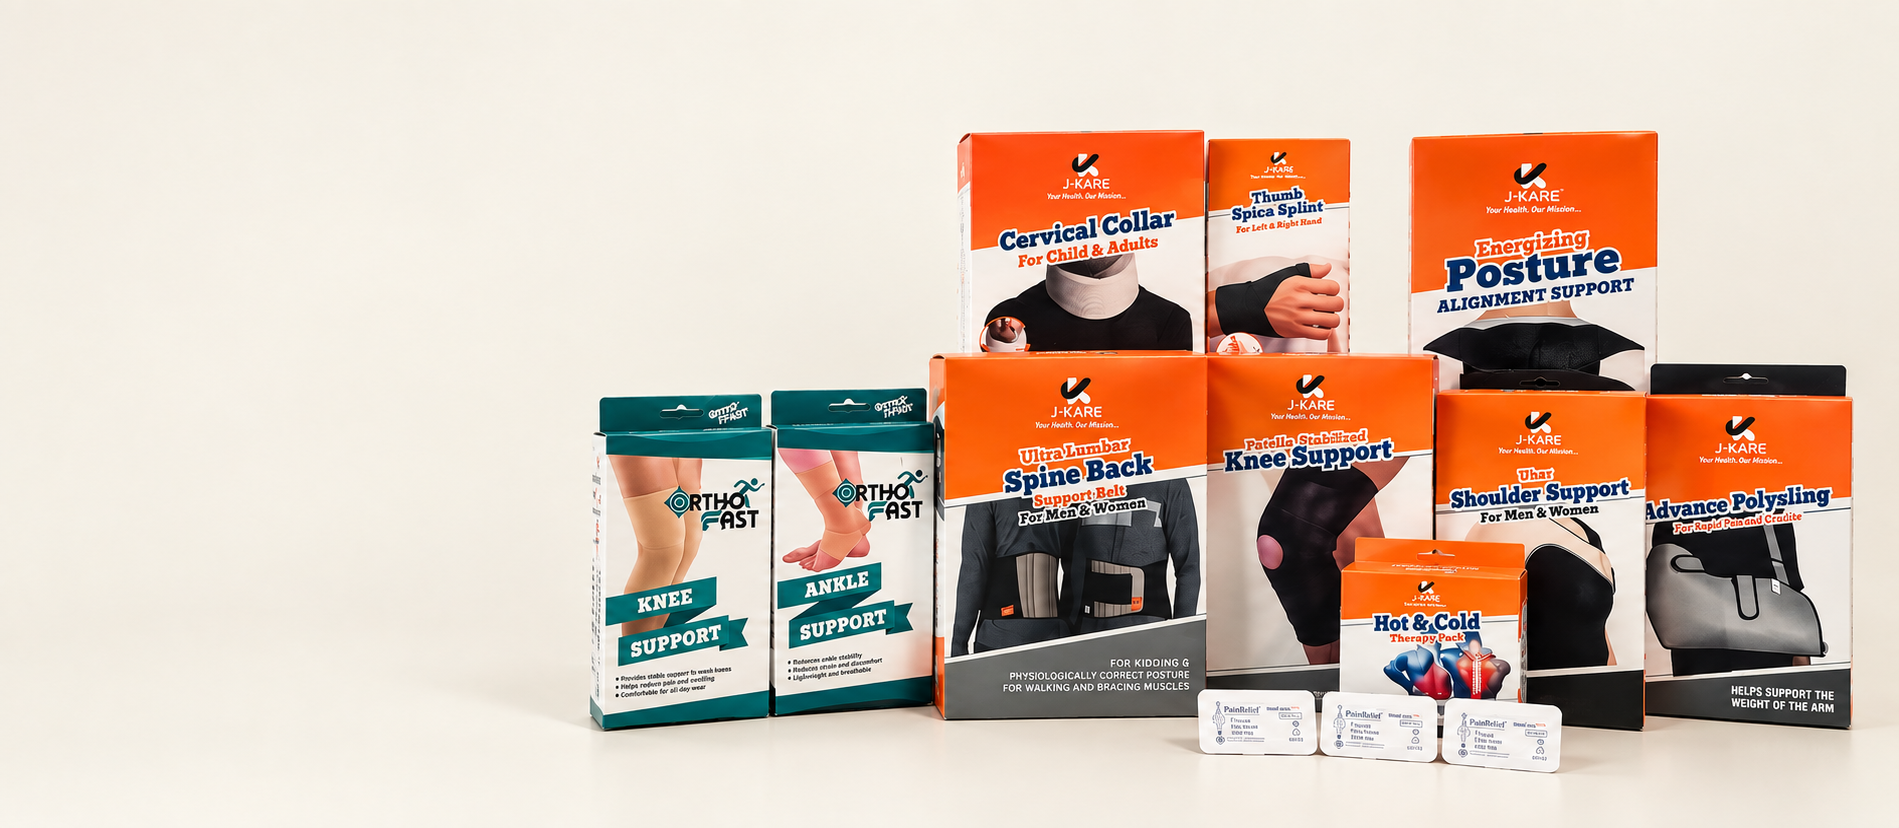
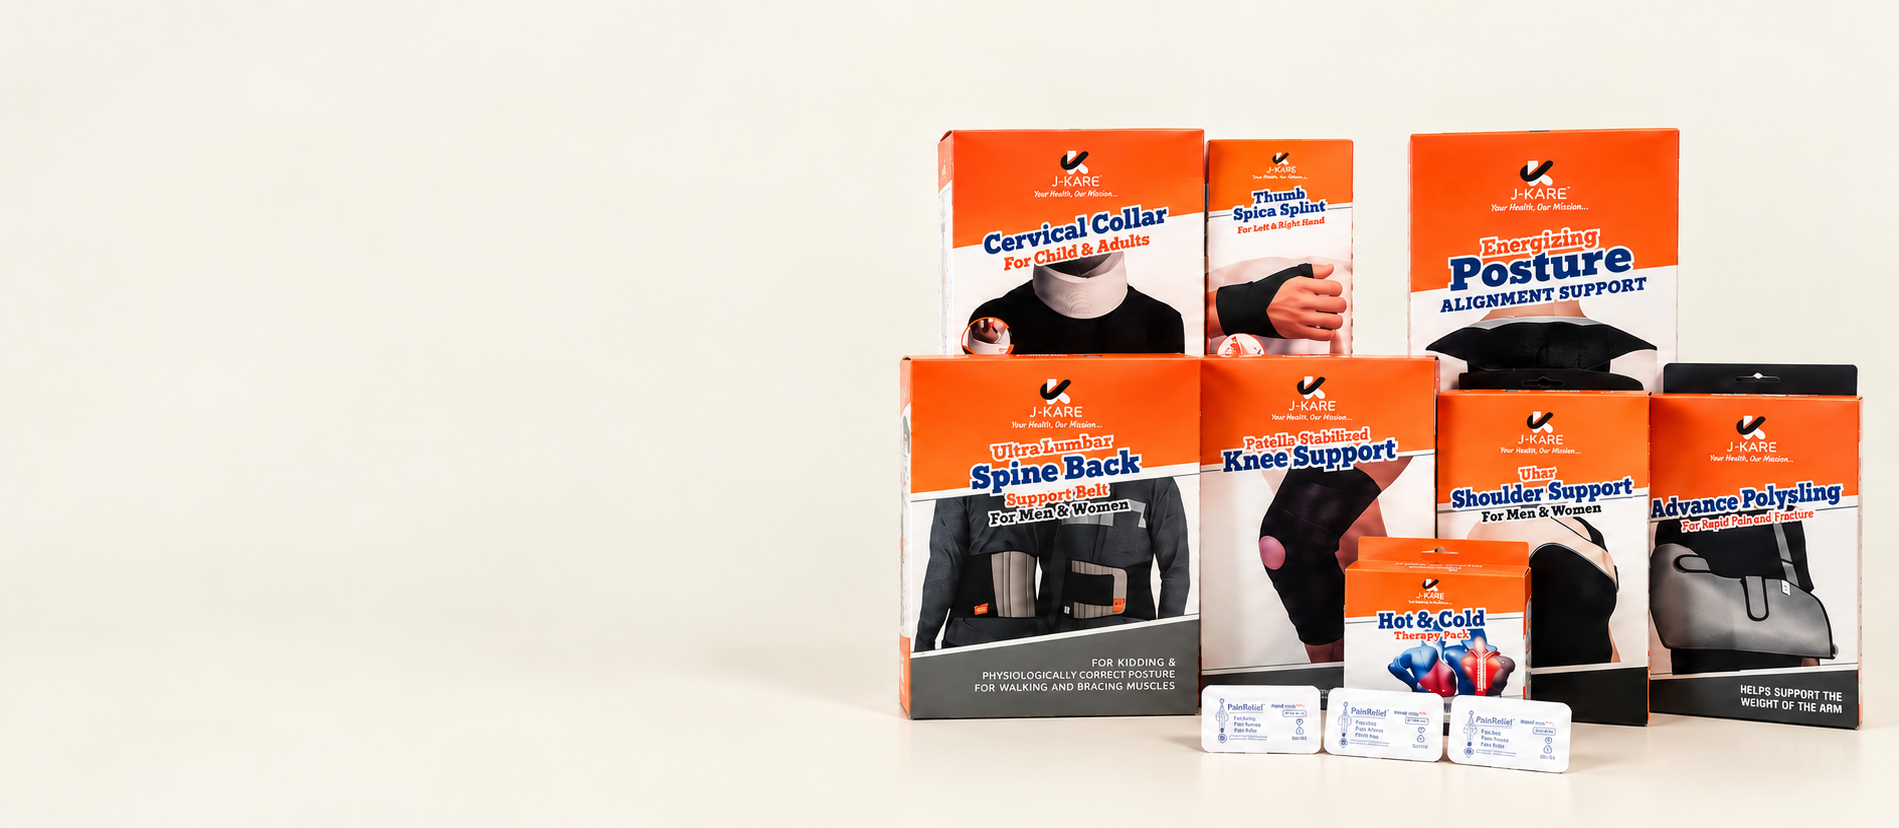
Fixing

Changed region(s): [[0.3107, 0.151, 0.9942, 0.936]]

diff --git a/src/pages/Home.jsx b/src/pages/Home.jsx
@@ -74,7 +74,7 @@ export default function Home() {
     <PageWrapper>
       {/* HERO */}
       <section className="relative overflow-hidden pt-14 pb-20 lg:pt-20 lg:pb-28">
-        <div className="hidden lg:block absolute inset-y-0 right-10 xl:right-16 w-[60%] xl:w-[56%]">
+        <div className="hidden lg:block absolute inset-y-0 right-0 w-[60%] xl:w-[56%]">
           <motion.img
             initial={{ opacity: 0, scale: 1.04 }}
             animate={{ opacity: 1, scale: 1 }}
